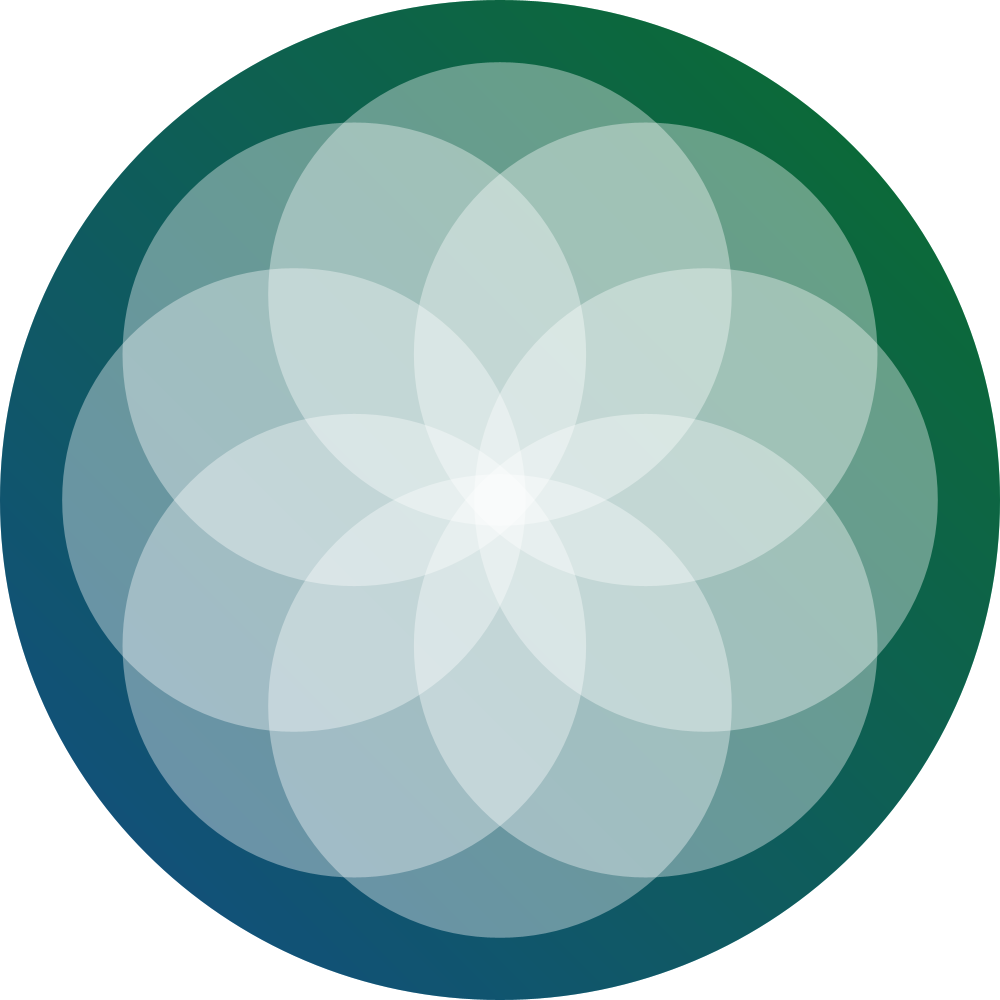
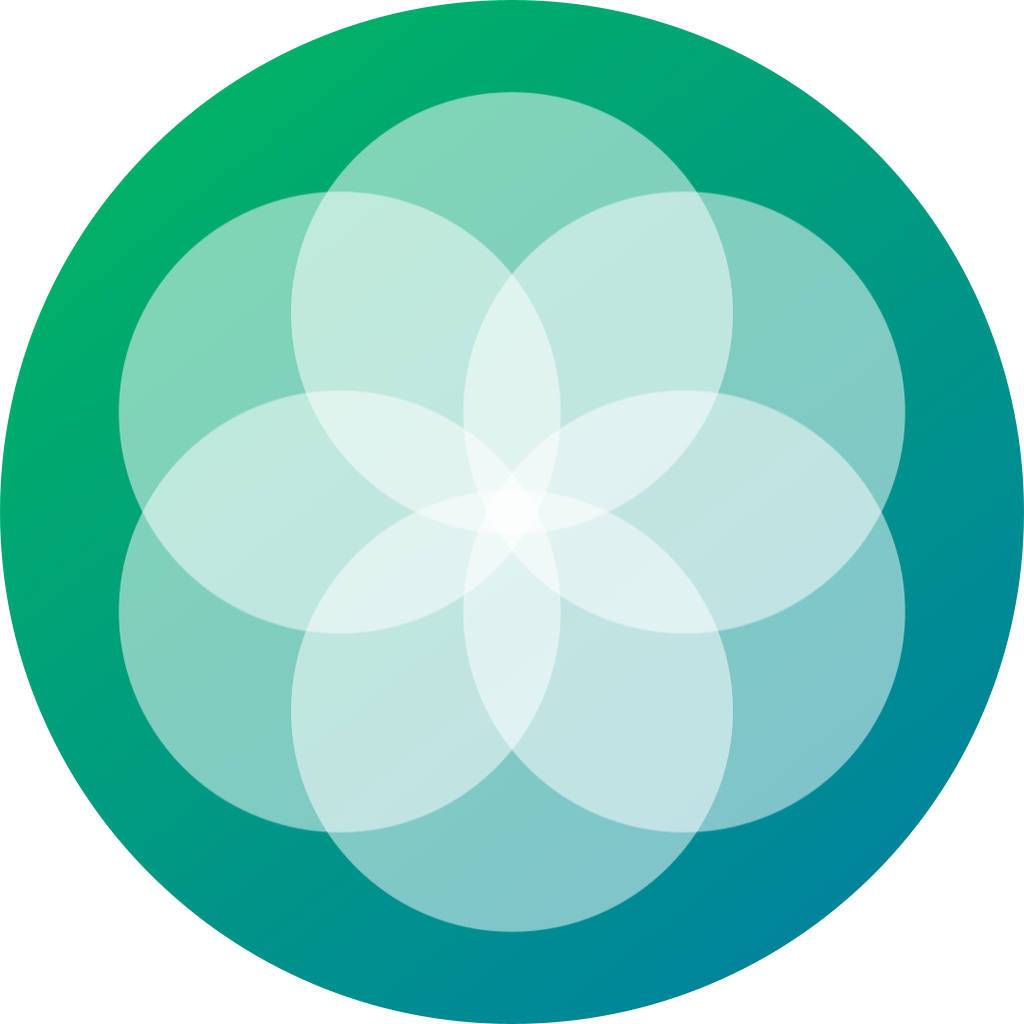
Updates to branding and small website changes

diff --git a/app.js b/app.js
@@ -69,6 +69,10 @@ app.get('/ext/figma-linker', function (req, res) { // Redirects to the Figma pro
     res.redirect('https://www.figma.com/proto/Hg8flxttRtx0qVc2obWXg9/Linker?type=design&node-id=1-2&t=qDSNgGGG3OLeuw37-1&scaling=scale-down&page-id=0%3A1&starting-point-node-id=1%3A2&mode=design');
 });
 
+app.get('/ext/github-acld', function (req, res) { // Redirects to the Figma prototype for Linker, a new type of messaging app.
+    res.redirect('https://github.com/ActuallyCloud/ACLD');
+});
+
 // Uptime monitoring response here. Also error 404 if no page found.
 app.get('/up',function(req,res){
     res.status(200).send('Up! o.0');

diff --git a/public/style.css b/public/style.css
@@ -88,7 +88,7 @@ hr {
 }
 
 .headerimg {
-  padding-bottom: 20px;
+  padding-bottom: 25px;
   height: 25vh;
 }
 
@@ -199,6 +199,17 @@ hr {
   border-radius: 10px;
   outline: 2px solid #AAAAAA;
   outline-offset: -2px;
+}
+
+.textboxes {
+  flex: 0 0 500px;
+  border: 1px none;
+  width: 500px;
+  min-height: 200px;
+  text-align: center;
+  margin: 10px;
+  vertical-align: middle;
+  border-radius: 10px;
 }
 
 .commandsflexdiv {
